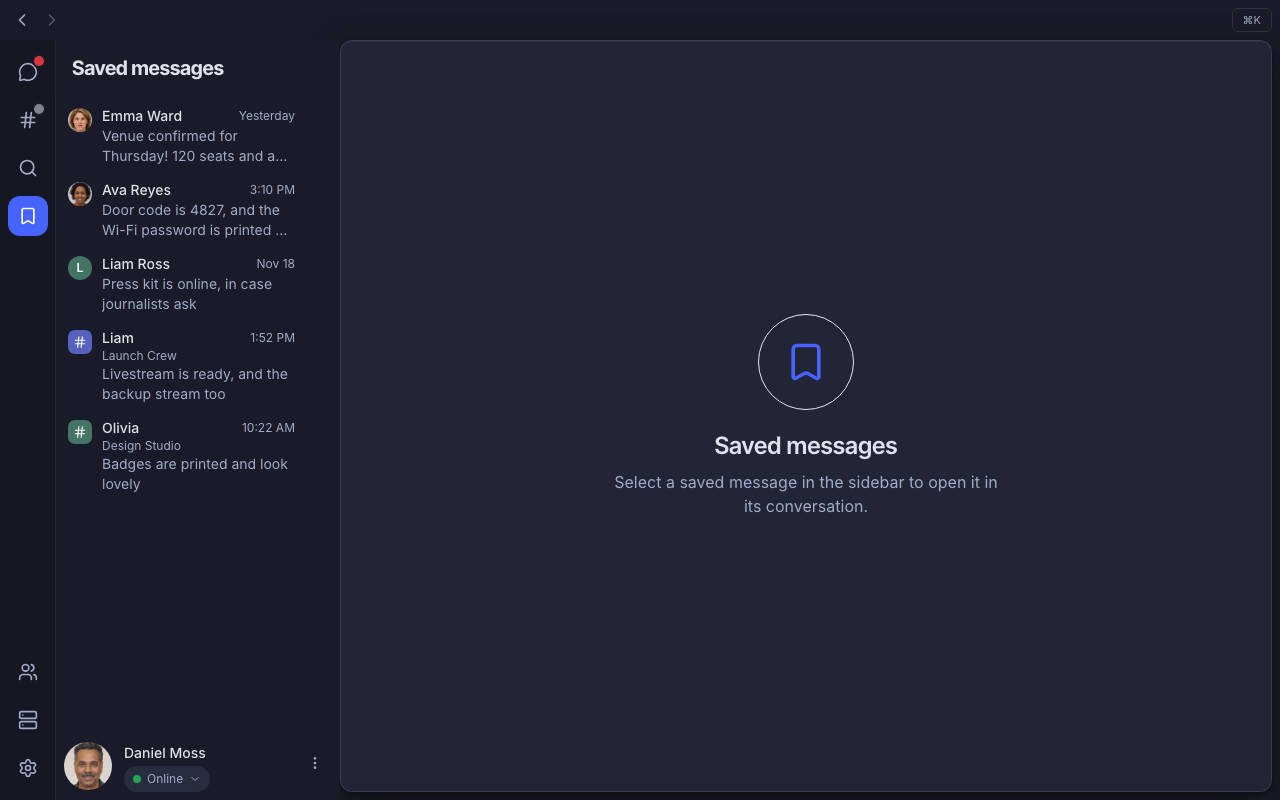
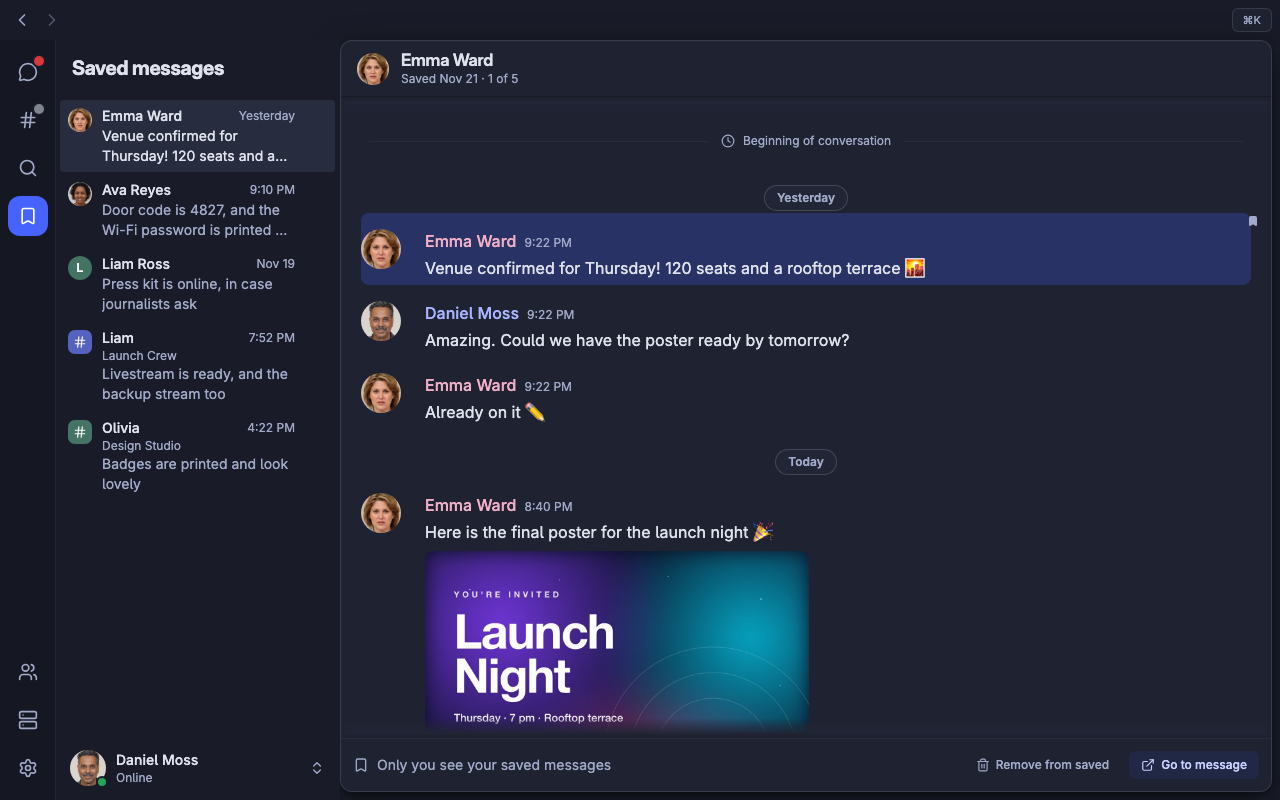
feat(saved): refresh the overview and showcase pictures, mark partial history in the pane

diff --git a/apps/fluux/src/components/SavedPane.tsx b/apps/fluux/src/components/SavedPane.tsx
@@ -32,14 +32,14 @@ import { useMode, useWindowDrag } from '@/hooks'
 /** Messages read from the cache on each side of the saved one. */
 const CONTEXT_SIZE = 50
 
-type Context = { messages: (Message | RoomMessage)[]; target?: Message | RoomMessage; loading: boolean }
+type Context = { messages: (Message | RoomMessage)[]; target?: Message | RoomMessage; loading: boolean; complete: boolean }
 
 /** The saved message's neighbours from this device's cache, and the cached copy of the message itself. */
 function useSavedContext(entry: SavedMessage): Context {
-  const [context, setContext] = useState<Context>({ messages: [], loading: true })
+  const [context, setContext] = useState<Context>({ messages: [], loading: true, complete: false })
   useEffect(() => {
     let cancelled = false
-    setContext({ messages: [], loading: true })
+    setContext({ messages: [], loading: true, complete: false })
     void (async () => {
       try {
         const isRoom = entry.type === 'groupchat'
@@ -50,10 +50,10 @@ function useSavedContext(entry: SavedMessage): Context {
         const after = await read(entry.conversationJid, { after: new Date(at.getTime() - 1), limit: CONTEXT_SIZE })
         const messages = mergeContextMessages(before, after, entry.conversationJid, isRoom)
         const shown = target ?? messages.find((m) => m.id === entry.messageId)
-        if (!cancelled) setContext({ messages, target: shown, loading: false })
+        if (!cancelled) setContext({ messages, target: shown, loading: false, complete: before.length < CONTEXT_SIZE })
       } catch (error) {
         console.warn('Could not read the context of a saved message', error)
-        if (!cancelled) setContext({ messages: [], loading: false })
+        if (!cancelled) setContext({ messages: [], loading: false, complete: false })
       }
     })()
     return () => { cancelled = true }
@@ -86,7 +86,7 @@ function SavedPreview({ entry, index, total, onRemove }: {
   const jid = useConnectionStore((s) => s.jid)
   const ownAvatar = useConnectionStore((s) => s.ownAvatar)
   const ownNickname = useConnectionStore((s) => s.ownNickname)
-  const { messages, target, loading } = useSavedContext(entry)
+  const { messages, target, loading, complete } = useSavedContext(entry)
   const scrollRef = useRef<HTMLElement>(null)
   const isAtBottomRef = useRef(false)
   const isRoom = entry.type === 'groupchat'
@@ -123,7 +123,7 @@ function SavedPreview({ entry, index, total, onRemove }: {
             isDarkMode={resolvedMode === 'dark'}
             scrollerRef={scrollRef}
             isAtBottomRef={isAtBottomRef}
-            isHistoryComplete
+            isHistoryComplete={complete}
             isLoading={loading}
           />
         ) : loading ? (
